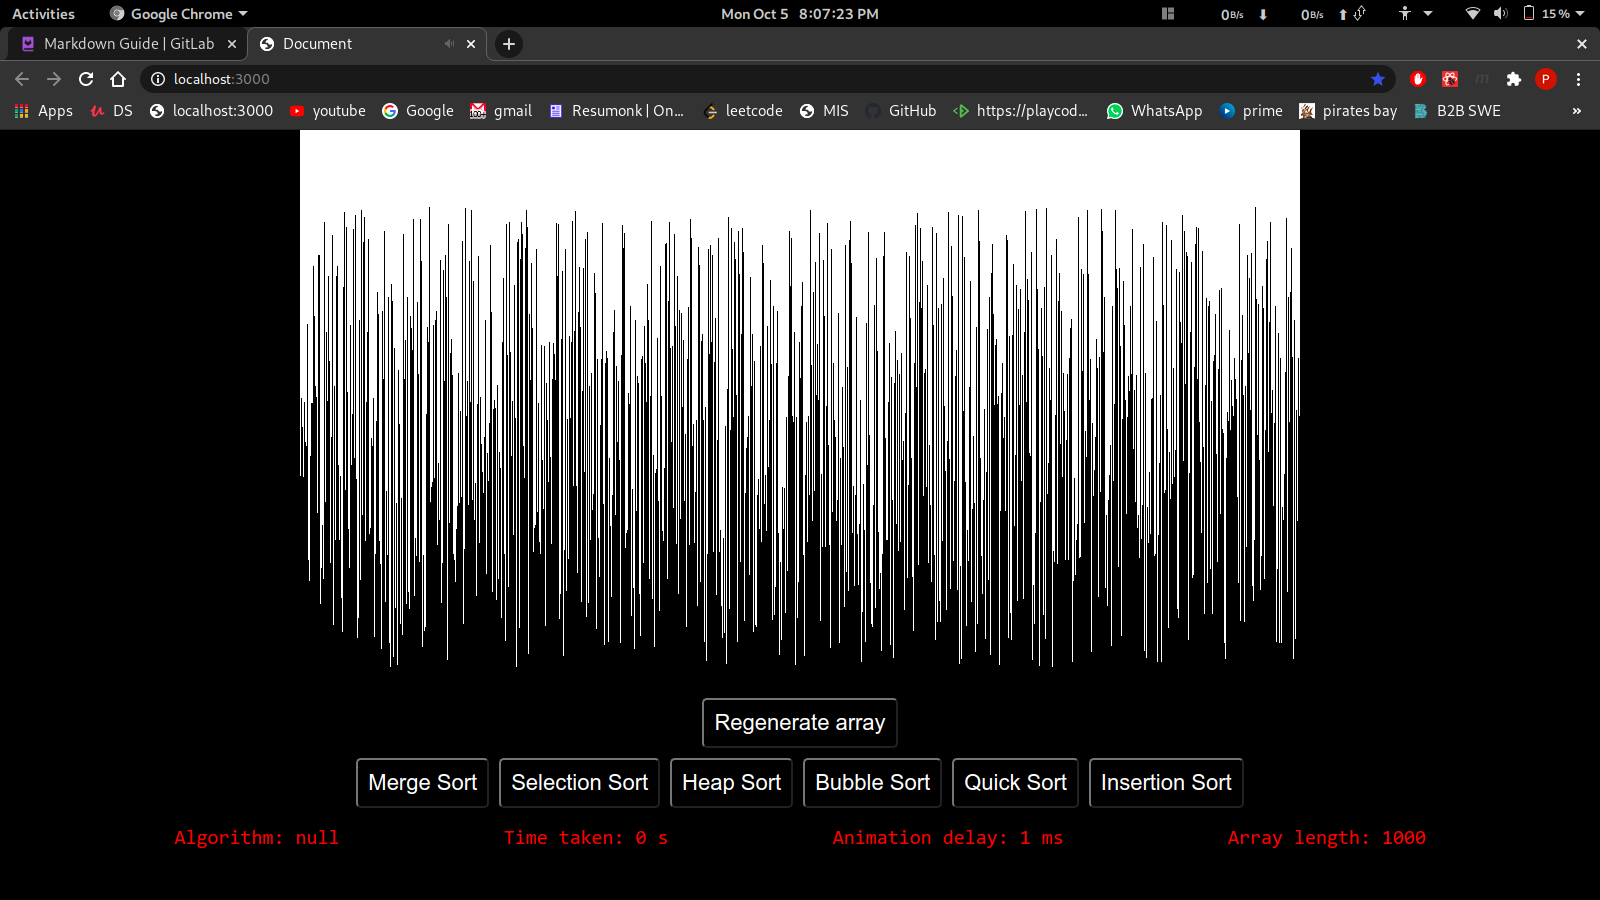
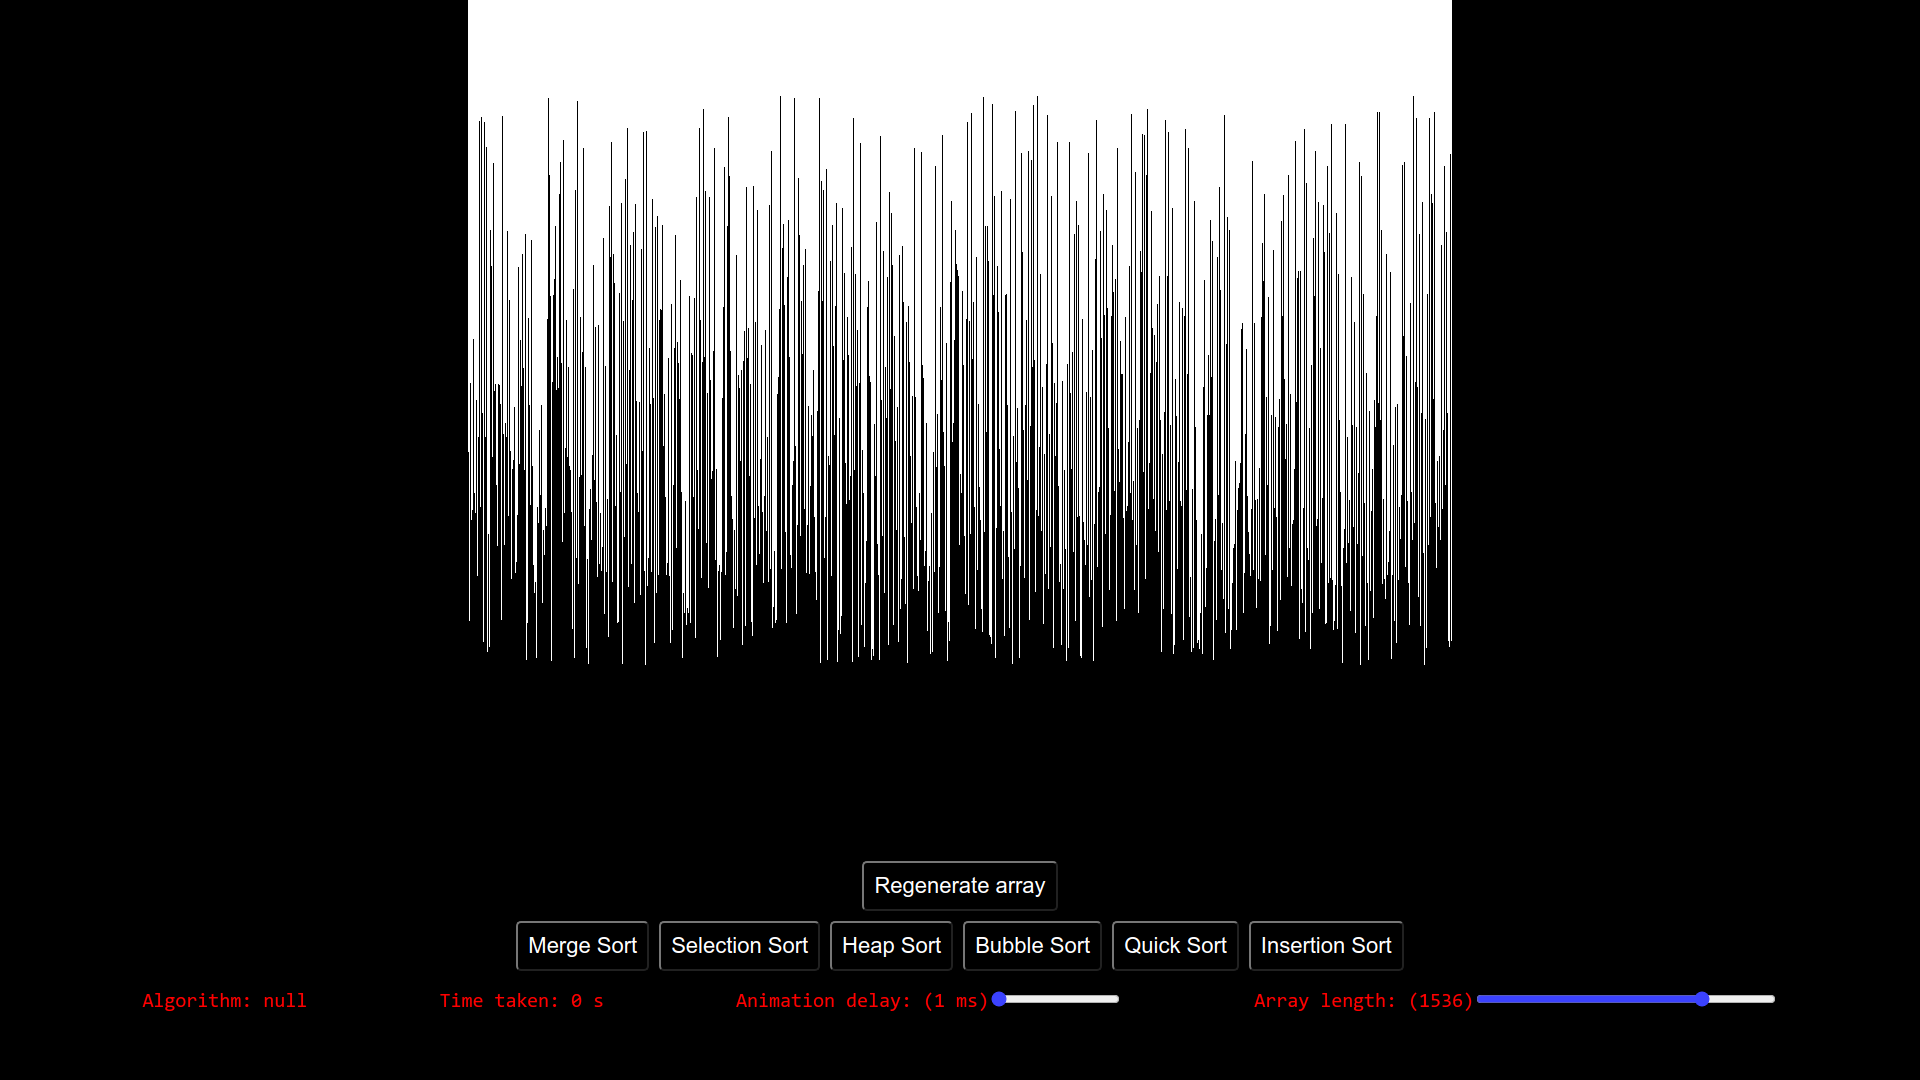
input range provided + ss update

diff --git a/src/app.js b/src/app.js
@@ -11,14 +11,32 @@ class SortingVisualizer extends SortingAlgorithms {
             buttonsDisabled:false,
             timer: 0,
             algorithm: "null",
+            arrLength: Math.floor(80/100*window.innerWidth), // 80% of available width
+            animationSpeed: 1   // 1ms by default
         };
 
-        this.MIN_HEIGHT = 10/100*window.innerHeight; // 30% of available height
+    }
+
+    componentWillMount() {
+        this.resetArray();
+    }
+
+    componentDidMount() {
+        this.resetArray();
+    }
+
+    resetArray = () => {
+        let arr = [];
+        for (let i=0; i<this.state.arrLength; i++) {
+            let e = randomIntFromInterval(this.MIN_HEIGHT, this.MAX_HEIGHT);
+            arr.push(e);
+        }
+
+        this.setState({arr: arr, timer: 0, buttonsDisabled: false, algorithm: "null"});
+        this.MIN_HEIGHT = 10/100*window.innerHeight; // 10% of available height
         this.MAX_HEIGHT = 70/100*window.innerHeight; // 70% of avaiable height
-        this.ARRAY_LENGTH = Math.floor(80/100*window.innerWidth); // 80% of avaiable width
         this.K = 1 * 1000;
-        this.arrayBarWidth = this.K / this.ARRAY_LENGTH;
-        this.ANIMATION_SPEED_MS = 1;
+        this.arrayBarWidth = this.K / this.state.arrLength;
     }
 
     createOscillator = ()=> {
@@ -33,19 +51,6 @@ class SortingVisualizer extends SortingAlgorithms {
         return oscillator;
     }
 
-    componentDidMount() {
-        this.resetArray();
-    }
-
-    resetArray = () => {
-        let arr = [];
-        for (let i=0; i<this.ARRAY_LENGTH; i++) {
-            let e = randomIntFromInterval(this.MIN_HEIGHT, this.MAX_HEIGHT);
-            arr.push(e);
-        }
-
-        this.setState({arr: arr, timer: 0, buttonsDisabled: false, algorithm: "null"});
-    }
 
 
     showAnimations = (animations, isHeap=false) => {
@@ -96,14 +101,14 @@ class SortingVisualizer extends SortingAlgorithms {
                 setTimeout(() => {
                     d[index1].style.backgroundColor = "white";
                     d[index2].style.backgroundColor = "white";
-                }, this.ANIMATION_SPEED_MS);
+                }, this.state.animationSpeed);
 
                 // For the sound
                 setTimeout(() => {
                     oscillator.frequency.value = index2;
                 }, i);
 
-            }, i*this.ANIMATION_SPEED_MS);
+            }, i*this.state.animationSpeed);
 
         }
 
@@ -145,6 +150,15 @@ class SortingVisualizer extends SortingAlgorithms {
         this.showAnimations(animations);
     }
 
+    handleArrayLengthChange = (e) => {
+        this.setState({arrLength: e.target.value});
+        this.resetArray();
+    }
+
+    handleAnimationSpeedChange = (e) => {
+        this.setState({animationSpeed: e.target.value});
+    }
+
 
     render() {
         return (
@@ -166,8 +180,14 @@ class SortingVisualizer extends SortingAlgorithms {
                     <div id="status-bar">
                         <p>Algorithm: {this.state.algorithm}</p>
                         <p>Time taken: {this.state.timer} s </p>
-                        <p>Animation delay: {this.ANIMATION_SPEED_MS} ms</p>
-                        <p>Array length: {this.ARRAY_LENGTH}</p>
+                        <p>
+                            Animation delay: ({this.state.animationSpeed} ms)
+                            <input disabled={this.state.buttonsDisabled} onChange={this.handleAnimationSpeedChange} value={this.state.animationSpeed} type="range" min="1" max="100" />
+                        </p>
+                        <p>
+                            Array length: ({this.state.arrLength})
+                            <input disabled={this.state.buttonsDisabled} onChange={this.handleArrayLengthChange} value={this.state.arrLength} id="input-array-length" type="range" min="10" max="2000" />
+                        </p>
                     </div>
                 </div>
             </div>

diff --git a/src/app.css b/src/app.css
@@ -47,3 +47,7 @@ p {
     position: absolute;
     bottom: 0px;
 }
+
+#input-array-length {
+    width: 300px;
+}
